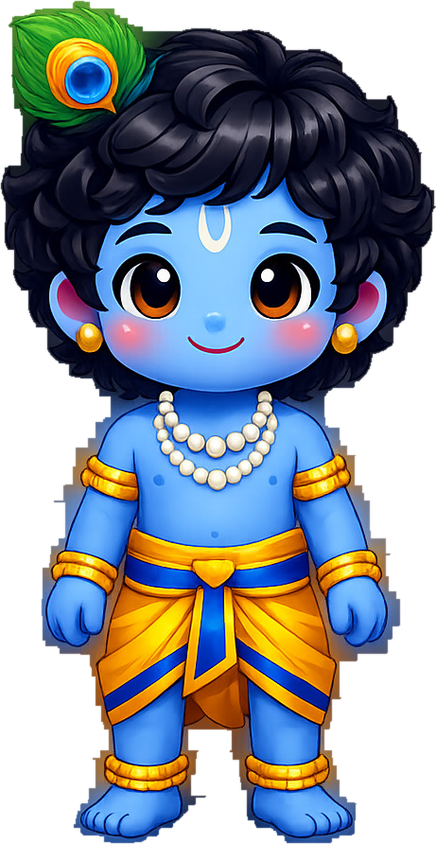
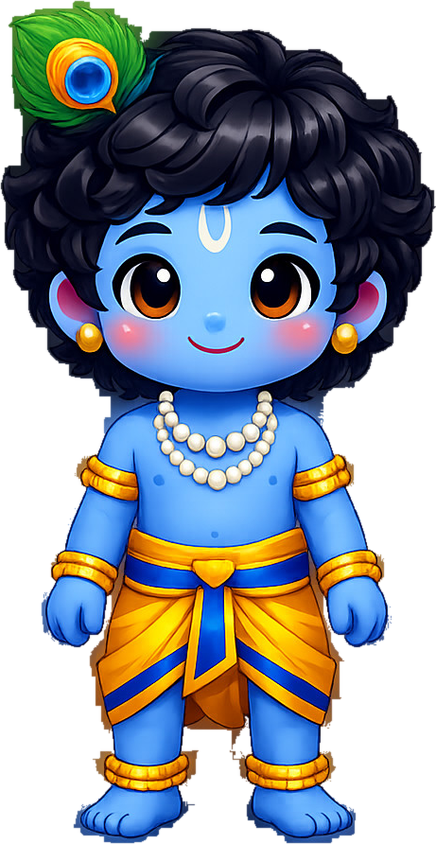
Strip the backdrop still welded to the keyed art
Putting Krishna on a store banner over a pale sky showed a staircase of haze
down both sides of him. It was backdrop the edge keyer never removed: the
steepness test stops the fill at anything that changes fast, JPEG ringing
around the art changes fast, and the fill halted a few pixels early. Every
background the art had been composited on until now was dark enough to hide
it - the home screen, the level room, the app icon's own gradient.

strip_rind spreads inward from the transparent region and takes anything that
still looks like backdrop. Two things had to be right and were not, first
time round:

  - It has to run last. Placed before the closing, the closing simply dilated
    the rind back and it removed 1343 pixels to no visible effect.
  - The rind is not grey. The hero art has a coloured glow painted around the
    figure, so the rind carries it - blue down one side at 0.20 to 0.32
    saturation, warm down the other at 0.35 - and a neutral-only ceiling of
    0.18 caught a tenth of it. At 0.55 it goes, while skin at 0.64 and gold
    past 0.9 stay, and the luminance window keeps the hair and the pearls.

Only the two files keyed in edges mode changed. Every other asset came out
byte-identical, which is the check that this did not quietly touch anything
else.

Also adds tools/build_feature_graphic.py - the 1024x500 banner Play shows at
the top of a listing, which I had left undone as wanting a real pass rather
[…]

diff --git a/tools/key_background.py b/tools/key_background.py
@@ -64,6 +64,21 @@ BAND_WIDTH = 8
 EDGE_BLUR = 0.6
 EDGE_THRESHOLD = 5
 
+# What a leftover scrap of backdrop looks like next to the art.
+#
+# The ceiling is this high because the scrap is rarely grey: the hero art has
+# a coloured glow painted around the figure, so the rind carries it - blue
+# down one side at 0.20 to 0.32 saturation, warm down the other at 0.35. A
+# neutral-only test took a tenth of it and left the rest as a staircase of
+# haze, invisible on the dark backgrounds the art is normally seen against
+# and obvious the moment it went on a store banner over a pale sky.
+#
+# It stays under what the art itself measures - skin around 0.64, gold and
+# feather past 0.9 - and the luminance window guards the two things that are
+# desaturated on purpose: hair below 55, pearls and highlights above 190.
+RIND_SATURATION = 0.55
+RIND_LUM = (55, 190)
+
 # Smaller than an 8x8 patch and it is keying residue, not something drawn
 OPAQUE = 200
 MIN_BLOB = 64
@@ -361,6 +376,73 @@ def close_gaps(kept, w, h, size):
     return bytearray(1 if p else 0 for p in out.get_flattened_data())
 
 
+def strip_rind(im, kept, w, h):
+    """
+    Peel off backdrop still clinging to the outline.
+
+    The steepness test stops the fill at anything that changes fast, and JPEG
+    ringing around the art changes fast - so the fill can halt a few pixels
+    early and leave a rind of backdrop grey welded to the silhouette. It is
+    invisible against the dark backgrounds the art is normally composited on
+    and unmissable on a pale one, which is a bad way to find out.
+
+    The tell is that it still looks like backdrop: neutral, and mid-toned.
+    Every part of the art it borders is either strongly coloured - blue skin,
+    gold, green - or much darker than the backdrop ever gets, so spreading
+    inward from the transparent region through neutral mid-tones only takes
+    the rind. Highlights survive: they are far brighter than RIND_LUM allows,
+    and enclosed ones like the whites of the eyes are never reached at all.
+    """
+
+    px = im.convert("RGB").load()
+    lo, hi = RIND_LUM
+
+    def backdroplike(i):
+
+        if not kept[i]:
+            return False
+
+        r, g, b = px[i % w, i // w]
+
+        top, bottom = max(r, g, b), min(r, g, b)
+
+        if top and (top - bottom) / top > RIND_SATURATION:
+            return False
+
+        return lo <= (r + g + b) / 3 <= hi
+
+    out = bytearray(kept)
+    seen = bytearray(w * h)
+    queue = deque()
+
+    # Seed from everything already judged backdrop
+    for i in range(w * h):
+        if not kept[i]:
+            seen[i] = 1
+            queue.append(i)
+
+    while queue:
+
+        i = queue.popleft()
+        x, y = i % w, i // w
+
+        for nx, ny in ((x + 1, y), (x - 1, y), (x, y + 1), (x, y - 1)):
+
+            if not (0 <= nx < w and 0 <= ny < h):
+                continue
+
+            j = ny * w + nx
+
+            if seen[j] or not backdroplike(j):
+                continue
+
+            seen[j] = 1
+            out[j] = 0
+            queue.append(j)
+
+    return out
+
+
 def keep_largest(kept, w, h):
     """
     Throw away everything not joined to the main shape.
@@ -508,6 +590,13 @@ def key(path, tolerance=DEFAULT_TOLERANCE, checker=False, edges=False, close=0):
         # A pocket several window-widths across was never something closing
         # was meant to reach, so it is left alone as real backdrop.
         kept = fill_holes(kept, w, h, (close * 4) ** 2)
+
+    # Last, and it has to be last: closing dilates the silhouette outward, so
+    # stripping the rind before it simply hands those pixels back. Running it
+    # after fill_holes is safe because a sealed pocket is not reachable from
+    # the outside, which is the only place this spreads from.
+    if edges:
+        kept = strip_rind(im, kept, w, h)
 
     alpha = Image.frombytes("L", (w, h), bytes(255 if k else 0 for k in kept))
 

diff --git a/tools/build_feature_graphic.py b/tools/build_feature_graphic.py
@@ -1,0 +1,119 @@
+"""
+Composes the 1024x500 feature graphic Play shows at the top of the listing.
+
+    python3 tools/build_feature_graphic.py
+
+Play is strict about the size - exactly 1024x500, no transparency - and loose
+about everything else, which is the trap. The graphic gets cropped on some
+surfaces and has UI laid over it on others, so anything that has to be read
+stays inside a margin rather than running to the edge.
+
+Built from the game's own art: the home screen's background, the title logo,
+Krishna, and the pot he is climbing for.
+"""
+
+import os
+
+from PIL import Image, ImageDraw, ImageFilter
+
+ROOT = os.path.join(os.path.dirname(os.path.abspath(__file__)), "..")
+ART = os.path.join(ROOT, "src", "assets")
+OUT = os.path.join(ROOT, "dist-store", "play-feature-graphic.png")
+
+SIZE = (1024, 500)
+
+# Keep anything that must survive a crop inside this much of each edge
+MARGIN = 60
+
+BRAND_DARK = (42, 20, 3)
+
+
+def load(*parts):
+    return Image.open(os.path.join(ART, *parts)).convert("RGBA")
+
+
+def background():
+    """
+    The home screen's village, cropped to the banner's shape.
+
+    Taken from the middle of the picture rather than the top: the upper third
+    is mostly sky, which at 500px tall would leave the banner looking empty.
+    """
+
+    art = load("backgrounds", "home_background.jpg")
+
+    # Widen to the banner's aspect by cutting a band out of the square
+    band_h = round(art.width * SIZE[1] / SIZE[0])
+    top = round((art.height - band_h) * 0.42)
+
+    band = art.crop((0, top, art.width, top + band_h))
+
+    return band.resize(SIZE, Image.LANCZOS)
+
+
+def fit_height(img, height):
+    scale = height / img.height
+    return img.resize(
+        (max(1, round(img.width * scale)), height), Image.LANCZOS
+    )
+
+
+def main():
+
+    os.makedirs(os.path.dirname(OUT), exist_ok=True)
+
+    canvas = background()
+
+    # The village art is busy and the logo has to sit on top of it, so the
+    # left half is darkened under a gradient rather than the whole banner -
+    # a flat scrim over everything makes the art look like a mistake.
+    scrim = Image.new("RGBA", SIZE, (0, 0, 0, 0))
+    draw = ImageDraw.Draw(scrim)
+
+    for x in range(SIZE[0]):
+        # Solid at the left edge, gone by two thirds across
+        t = max(0.0, 1 - x / (SIZE[0] * 0.66))
+        draw.line([(x, 0), (x, SIZE[1])], fill=BRAND_DARK + (round(205 * t),))
+
+    canvas.alpha_composite(scrim)
+
+    # Krishna on the right, standing on the bottom edge. Cropped at the ankles
+    # by the frame rather than floated above it, which is what makes him look
+    # like part of the scene instead of a sticker on it.
+    krishna = fit_height(load("characters", "krishna_hero.png"), 560)
+
+    glow = Image.new("RGBA", SIZE, (0, 0, 0, 0))
+    ImageDraw.Draw(glow).ellipse(
+        (SIZE[0] - 430, 40, SIZE[0] - 30, 440), fill=(255, 190, 90, 70)
+    )
+    canvas.alpha_composite(glow.filter(ImageFilter.GaussianBlur(60)))
+
+    canvas.alpha_composite(
+        krishna, (SIZE[0] - MARGIN - krishna.width + 40, SIZE[1] - 470)
+    )
+
+    # The pot he is climbing for, hanging into the frame from the top
+    pot = fit_height(load("items", "butter_pot.png"), 300)
+    canvas.alpha_composite(pot, (round(SIZE[0] * 0.56), -70))
+
+    # Title, left, inside the margin on every side
+    logo = load("ui", "logo.png")
+    logo_w = round(SIZE[0] * 0.42)
+    logo = logo.resize(
+        (logo_w, max(1, round(logo.height * logo_w / logo.width))),
+        Image.LANCZOS
+    )
+
+    canvas.alpha_composite(
+        logo, (MARGIN, (SIZE[1] - logo.height) // 2 - 30)
+    )
+
+    # Play rejects transparency in this one
+    canvas.convert("RGB").save(OUT, "PNG", optimize=True)
+
+    print(f"{OUT}  {SIZE[0]}x{SIZE[1]}  "
+          f"{os.path.getsize(OUT) // 1024}KB")
+
+
+if __name__ == "__main__":
+    main()
